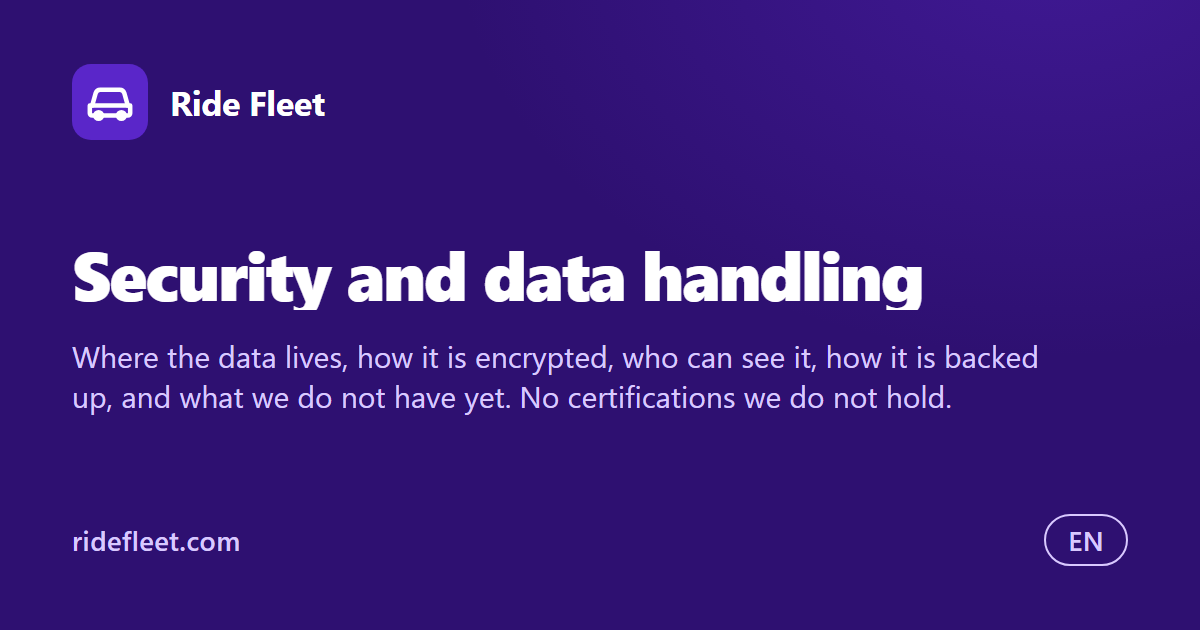
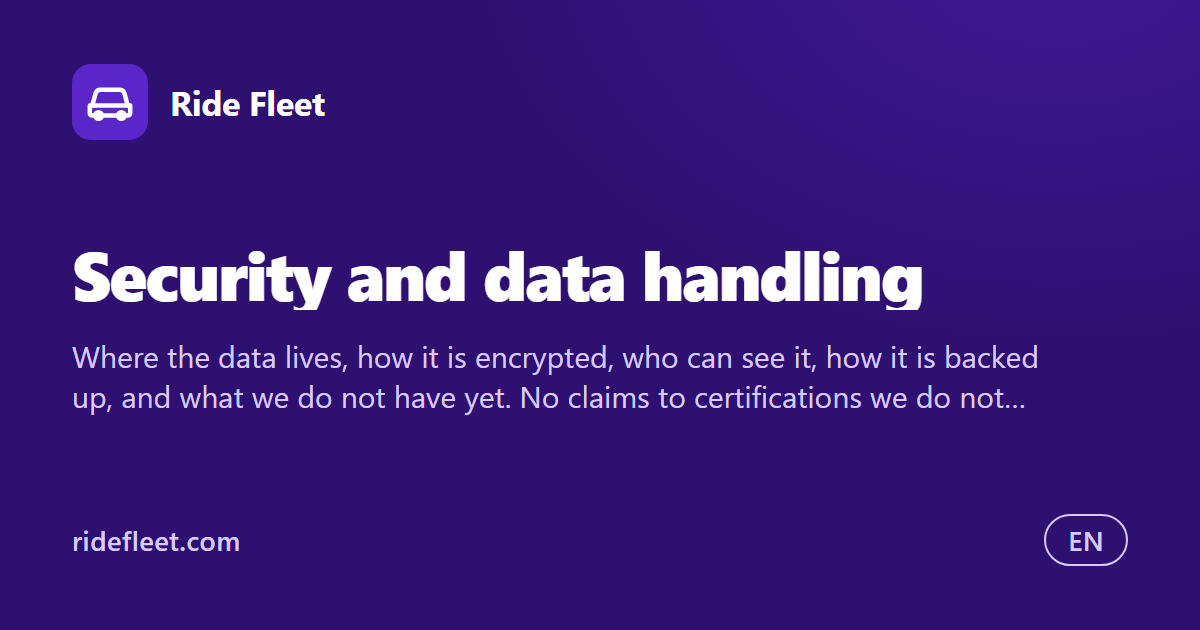
Editorial pass on the English catalogs [visual-baseline]
Key parity was already machine-enforced; quality parity was not. A
sentence-by-sentence review against the Spanish sources across all seven
namespaces found ~70 defects, all fixed conservatively (values only, no
keys, placeholders untouched):

- One meaning inversion, on /security: the English said there were no
  certifications we do not hold, which is the opposite of the Spanish.
  It now says we make no claims to certifications we do not hold. The
  page exists to avoid claiming what we lack, so the old wording
  undercut the very honesty it was making a point of.
- Calques no native writes: a rental that shows up in no report, data
  that arrives by hand, something that doesn't close perfectly for algo
  no cierra, in your name for en tu nombre, these are they, it computes
  right here.
- British spelling throughout a US-market site: licence, authorise,
  utilisation, catalogue, colour, labelled, judgement, programme, tick.
- Spanish artifacts left in the English file: lowercase month
  abbreviations such as 24 jul, and 35 % with the Spanish space before
  the percent sign.
- A misplaced modifier on /demo that read as the driver acting on his
  own rather than the toll matching itself.

The in-progress badge label is now Under construction: as a lone badge,
Building reads as the noun. The three RFM comparison badges follow the
Spanish phrasing rather than a colon construction, and the README's
description of the badge is updated to match.
[…]

Changed region(s): [[0.4625, 0.6032, 0.8325, 0.6635]]

diff --git a/README.md b/README.md
@@ -140,6 +140,7 @@ a 24-month retention window and Puerto Rico governing law among them — that a 
 needs to confirm or replace. `/security` likewise describes intended controls;
 anything not yet true should be badged or cut.
 
-Features still in progress carry an inline "En construcción / Building" badge next to
-the claim itself, never in a footnote. Remove each badge as the feature ships.
+Features still in progress carry an inline "En construcción / Under construction"
+badge next to the claim itself, never in a footnote. Remove each badge as the
+feature ships.
 `grep -rn "buildingBadge\|badge-building" src` finds them all.
